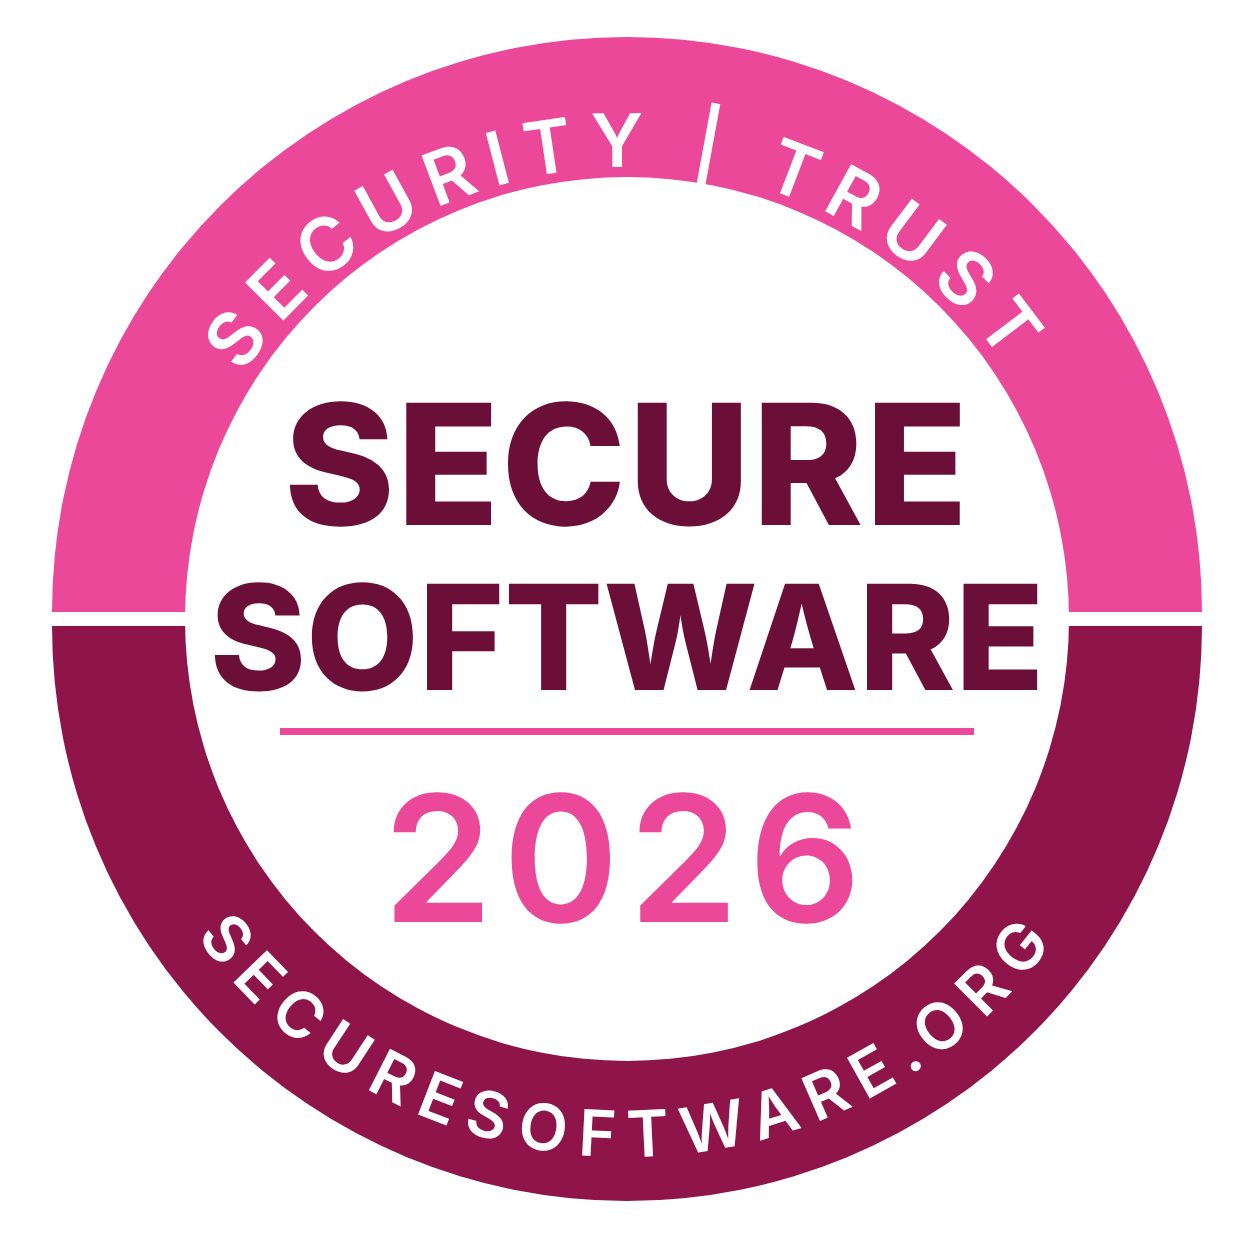
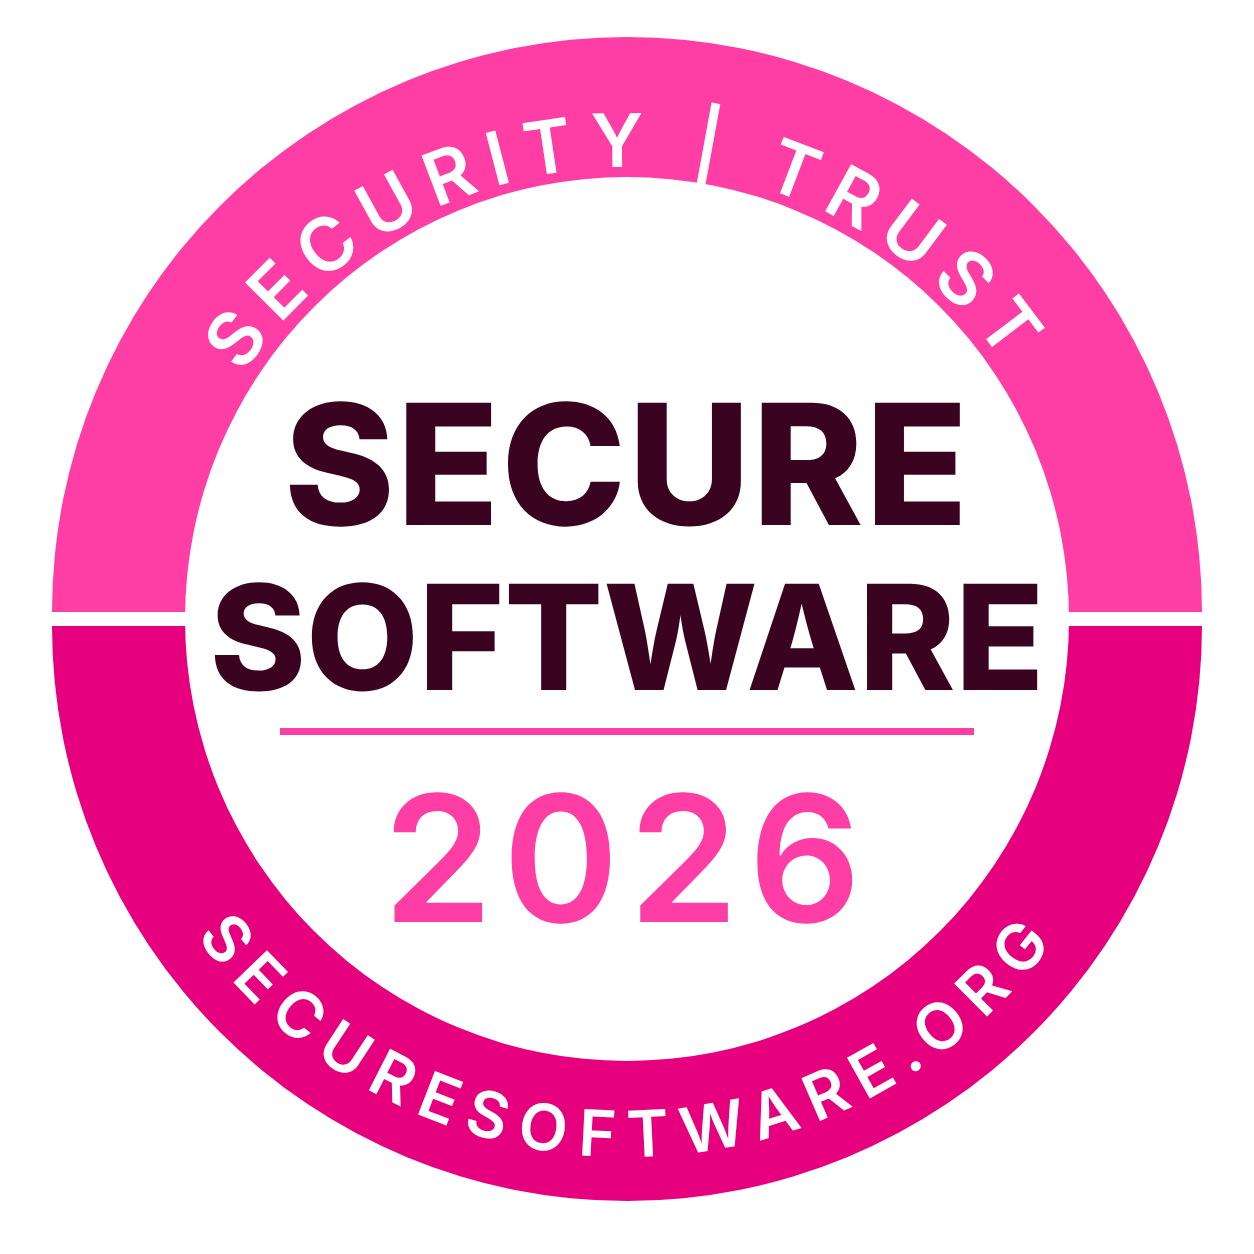
Neon hot-pink palette
Claude-Session: https://claude.ai/code/session_01G6gvxkUtkH3PQ2kPFbRBNR

Changed region(s): [[0.0311, 0.4665, 0.9641, 0.9641], [0.2177, 0.311, 0.7775, 0.4354]]

diff --git a/site.css b/site.css
@@ -1,14 +1,14 @@
 /* Secure Software — shared site styles.
    Same layout system as securefunder.org / securebroker.org, with a pink palette. */
 :root {
-  /* Pinks, soft -> bright -> dark */
-  --pink-50: #FFF5FA; --pink-100: #FDE7F1; --pink-200: #FBCFE5; --pink-300: #F7A8CF;
-  --pink-500: #EC4899; --pink-600: #D6246F;
-  --pink-700: #B0185A; --pink-800: #8E1449; --pink-900: #6B0F38; --pink-950: #3F0820;
+  /* Neon / hot pinks, soft -> bright -> dark */
+  --pink-50: #FFF2F9; --pink-100: #FFE0F0; --pink-200: #FFC2E2; --pink-300: #FF8FCB;
+  --neon: #FF3EA5; --hot: #E6007E; --hot-deep: #C2006A;
+  --pink-900: #5A0632; --pink-950: #3A0420;
 
-  --ink: var(--pink-950); --text: #4A2A39; --muted: #8A6475; --rule: #F3D9E5; --band: var(--pink-50); --paper: #FFFFFF;
-  --link: var(--pink-700); --accent: var(--pink-600); --accent-deep: var(--pink-700); --dark: var(--pink-800);
-  --highlight: var(--pink-300); --tag: var(--pink-200);
+  --ink: var(--pink-950); --text: #4A2238; --muted: #8A5D74; --rule: #FFD3E9; --band: var(--pink-50); --paper: #FFFFFF;
+  --link: #CC0070; --accent: var(--hot); --accent-deep: var(--hot-deep); --dark: var(--hot);
+  --highlight: var(--neon); --tag: var(--pink-200);
   --foot-text: var(--pink-200); --foot-head: var(--pink-300); --foot-link: #FFFFFF;
   --serif: 'Source Serif 4', Georgia, 'Times New Roman', serif;
   --sans: 'Public Sans', 'Helvetica Neue', Arial, sans-serif;
@@ -32,7 +32,7 @@ h1, h2, h3 { font-family: var(--serif); color: var(--ink); font-weight: 500; mar
 .btn-quiet:hover { background: var(--ink); border-color: var(--ink); color: #fff; }
 
 /* Top line + nav */
-.topline { background: var(--highlight); color: #000; font-size: 13px; text-align: center; padding: 8px 16px; position: sticky; top: 0; z-index: 60; }
+.topline { background: var(--neon); color: var(--ink); font-weight: 600; font-size: 13px; text-align: center; padding: 8px 16px; position: sticky; top: 0; z-index: 60; }
 .nav { border-bottom: 1px solid var(--rule); background: var(--paper); position: sticky; top: 37px; z-index: 50; }
 .nav .wrap { display: flex; align-items: center; justify-content: space-between; height: 72px; gap: 24px; }
 .nav-logo { display: flex; align-items: center; gap: 10px; color: var(--ink); font-family: var(--sans); font-weight: 700; font-size: 19px; letter-spacing: -0.01em; white-space: nowrap; }
@@ -60,7 +60,7 @@ h1, h2, h3 { font-family: var(--serif); color: var(--ink); font-weight: 500; mar
 
 /* Sections */
 .section { padding: 88px 0; border-bottom: 1px solid var(--rule); }
-.section.dark { background: var(--dark); color: var(--foot-text); border-bottom: 0; }
+.section.dark { background: var(--hot); color: #FFE6F3; border-bottom: 0; }
 .section.dark h2, .section.dark strong { color: #fff; }
 .section.band { background: var(--band); }
 .section > .wrap { display: grid; grid-template-columns: minmax(0, 4fr) minmax(0, 8fr); gap: 64px; }
@@ -71,7 +71,7 @@ h1, h2, h3 { font-family: var(--serif); color: var(--ink); font-weight: 500; mar
 .body p:last-child { margin-bottom: 0; }
 .body strong { color: var(--ink); font-weight: 600; }
 .tag-new { display: inline-block; background: var(--tag); color: var(--ink); font-size: 12px; font-weight: 700; letter-spacing: .08em; text-transform: uppercase; line-height: 1; padding: 6px 9px; margin-bottom: 14px; }
-.soft-mark { background: rgba(247, 168, 207, .55); color: inherit; padding: 1px 4px; border-radius: 3px; }
+.soft-mark { background: rgba(255, 62, 165, .25); color: inherit; padding: 1px 4px; border-radius: 3px; }
 
 .lead { font-family: var(--serif); font-size: 24px; line-height: 1.45; color: var(--ink); margin: 0 0 28px; max-width: 30em; }
 
@@ -95,7 +95,7 @@ h1, h2, h3 { font-family: var(--serif); color: var(--ink); font-weight: 500; mar
 /* Compare (not a checklist) */
 .contrast { display: grid; grid-template-columns: repeat(2, minmax(0, 1fr)); gap: 16px; }
 .contrast > div { border: 1px solid var(--rule); padding: 22px 22px 24px; }
-.contrast .is { border-color: var(--accent); background: var(--pink-100); }
+.contrast .is { border-color: var(--neon); border-width: 2px; background: var(--pink-100); }
 .contrast h3 { font-family: var(--sans); font-size: 12px; font-weight: 700; letter-spacing: .1em; text-transform: uppercase; color: var(--muted); margin: 0 0 12px; }
 .contrast .is h3 { color: var(--accent); }
 .contrast ul { list-style: none; margin: 0; padding: 0; }
@@ -117,14 +117,14 @@ h1, h2, h3 { font-family: var(--serif); color: var(--ink); font-weight: 500; mar
 .linkbtn:hover { text-decoration: underline; text-underline-offset: 3px; }
 
 /* Closing band */
-.closing { padding: 96px 0; background: var(--pink-700); color: var(--foot-text); }
+.closing { padding: 96px 0; background: var(--neon); color: var(--ink); }
 .closing .wrap { display: flex; align-items: flex-end; justify-content: space-between; gap: 40px; flex-wrap: wrap; }
-.closing h2 { color: #fff; font-size: clamp(32px, 4vw, 44px); line-height: 1.1; max-width: 16em; }
+.closing h2 { color: var(--ink); font-size: clamp(32px, 4vw, 44px); line-height: 1.1; max-width: 16em; }
 .closing p { margin: 14px 0 0; font-size: 16px; }
-.closing .btn { background: #fff; border-color: #fff; color: var(--pink-800); }
-.closing .btn:hover { background: var(--pink-200); border-color: var(--pink-200); }
-.closing .btn-quiet { background: transparent; color: #fff; border-color: #fff; }
-.closing .btn-quiet:hover { background: #fff; color: var(--ink); }
+.closing .btn { background: var(--ink); border-color: var(--ink); color: #fff; }
+.closing .btn:hover { background: #fff; border-color: #fff; color: var(--ink); }
+.closing .btn-quiet { background: transparent; color: var(--ink); border-color: var(--ink); }
+.closing .btn-quiet:hover { background: var(--ink); color: #fff; }
 .closing-actions { display: flex; gap: 12px; flex-wrap: wrap; }
 
 /* FAQ */
@@ -178,7 +178,7 @@ h1, h2, h3 { font-family: var(--serif); color: var(--ink); font-weight: 500; mar
 .notice { font-size: 14px; color: var(--muted); margin: 16px 0 0; }
 
 /* Footer */
-.site-foot { padding: 56px 0 48px; font-size: 14px; color: var(--foot-text); background: var(--pink-900); }
+.site-foot { padding: 56px 0 48px; font-size: 14px; color: var(--foot-text); background: var(--pink-950); }
 .site-foot .fob { --fob-rule: rgba(255,255,255,0.22); margin: 0 0 48px; }
 .site-foot .fob-title { margin: 0 0 6px; font-family: inherit; font-size: 17px; font-weight: 700; color: #fff; }
 .site-foot .fob-sub { margin: 0; max-width: none; font-size: 14px; color: var(--foot-text); }
@@ -194,7 +194,7 @@ h1, h2, h3 { font-family: var(--serif); color: var(--ink); font-weight: 500; mar
 .site-foot .foot-brand { font-family: var(--sans); font-weight: 700; font-size: 17px; color: #fff; margin: 0 0 10px; }
 .site-foot .foot-brand sup { font-size: 9px; font-weight: 500; }
 .site-foot p { margin: 0; max-width: 30em; line-height: 1.6; }
-.site-foot h4 { margin: 0 0 12px; font-size: 12px; font-weight: 600; letter-spacing: .08em; text-transform: uppercase; color: var(--foot-head); }
+.site-foot h4 { margin: 0 0 12px; font-size: 12px; font-weight: 600; letter-spacing: .08em; text-transform: uppercase; color: var(--neon); }
 .site-foot a { color: var(--foot-link); }
 .site-foot a:hover { color: #fff; }
 .site-foot .foot-col a { display: block; padding: 3px 0; }

diff --git a/README.md b/README.md
@@ -1,6 +1,6 @@
 # secure-software-site
 
-Static site for Secure Software™ (securesoftware.org), the software certification in the Secure Broker / Secure Funder family. Same layout system as those sites, with an pink palette.
+Static site for Secure Software™ (securesoftware.org), the software certification in the Secure Broker / Secure Funder family. Same layout system as those sites, with an neon pink palette.
 
 - `site.css`: shared styles; colors are the tokens at the top.
 - Pages: `/`, `/how-it-works/`, `/join/`, `/contact/`, `/directory/`.
